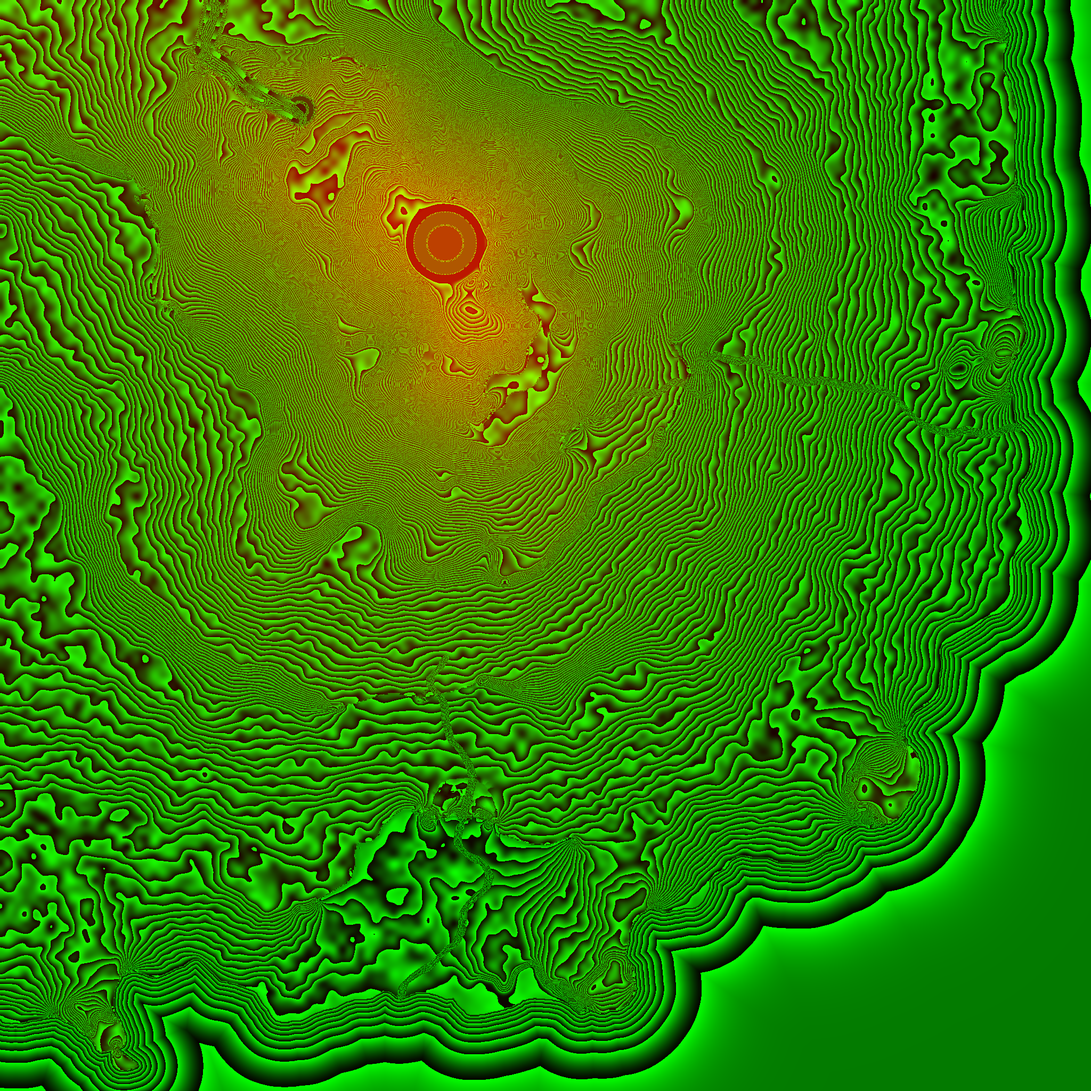
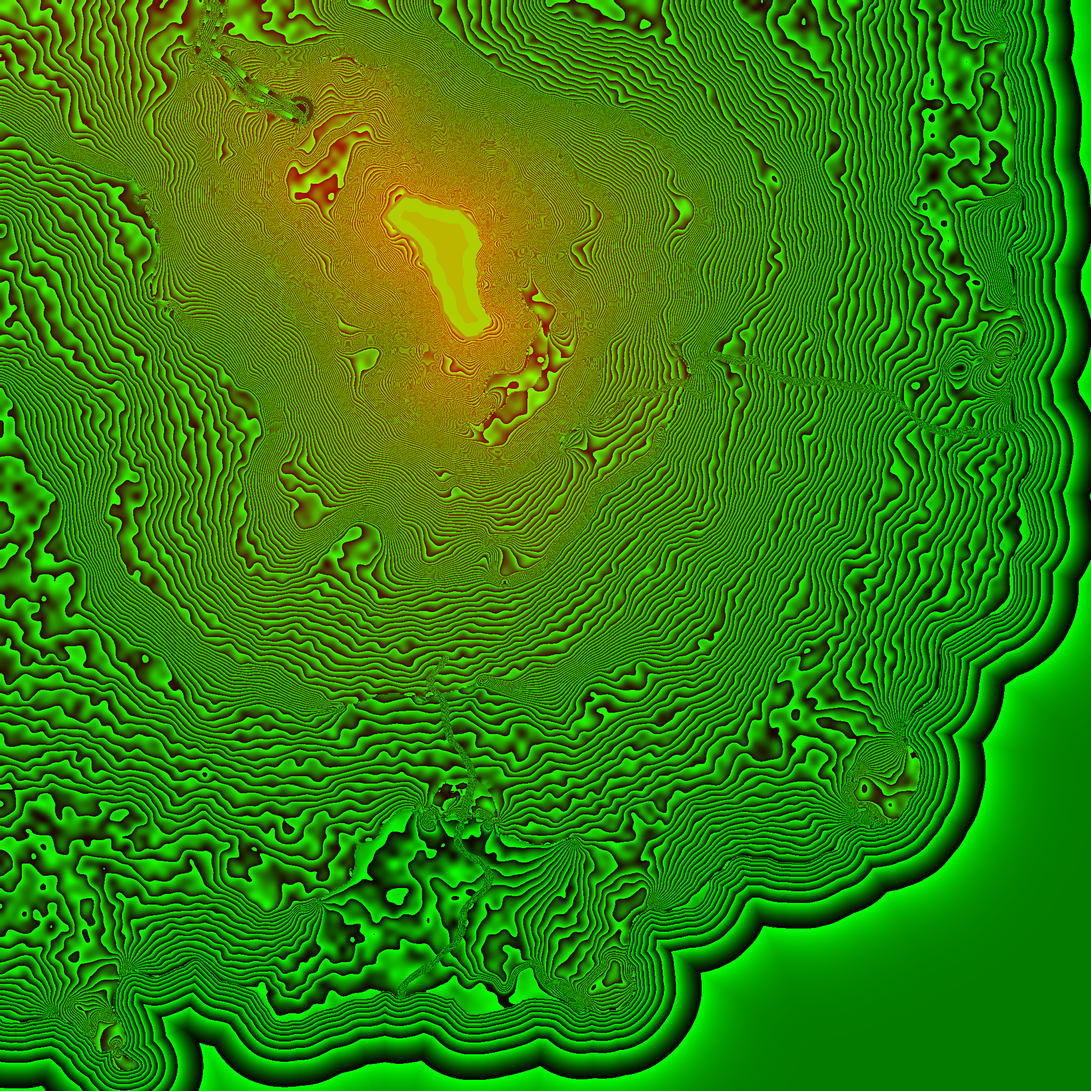
feat(map): 해자를 정상 300m 등고선 모양으로 — 원형 도장 대신 moat.png
- sketch_to_map: 300m 등고선 안을 11m 줄인 띠에 폭 25m·깊이 22m 물, 그 안 = 탑 섬 (약 146×213m, 9100㎡)
- 굽기: moat.png 층 (0 없음·128 물·255 섬) → 저수호·탑 도장 생략, 표식 중심·둑·섬 높이 계산 (MapStamps.shaped_moat)
- 게임: 수면 격자·수영 판정(Water.area)·식생 제외를 해자 모양으로

Claude-Session: https://claude.ai/code/session_01PShdycDoYj1ffFPsLxdXpC

Changed region(s): [[0.3438, 0.1562, 0.4688, 0.3125]]

diff --git a/tools/sketch_to_map.py b/tools/sketch_to_map.py
@@ -64,8 +64,8 @@ FOREST_DENSITY = 0.008 # 이 밀도 넘으면 숲
 MARKERS = [
     ("start", 873, 1728),
     ("lookout", 158, 1847),        # 전망대 (observatory)
-    ("tower", 634, 727),           # 굽기에서 해자 중심으로 옮겨진다
-    ("lake", 629, 721),            # 해자 = 저수호 도장. 정상 평지 한가운데 (그림의 빗금 자리는 동쪽 비탈에 걸려 좁았다)
+    ("tower", 634, 727),           # 굽기에서 moat.png 탑 섬 중심으로 옮겨진다
+    ("lake", 629, 721),            # 해자 = moat.png 모양 (굽기에서 중심·둑 높이 계산)
     ("sluice", 420, 592),
     ("sluice", 790, 922),
     ("sluice", 628, 1297),
@@ -85,6 +85,13 @@ POOL_DEPTH = 14.0              # 소 깊이 (바닥 아래, m) — 개천 파기
 EXTRA_STREAMS = [[(667, 1480), (660, 1510), (651, 1538)]]   # 그림에서 마을 빗금에 가려 끊긴 남쪽 강 (절벽 = 폭포 자리)
 NOT_CLIFF_BOXES = [(595, 700, 710, 860)]   # 절벽색으로 읽히지만 절벽이 아닌 곳 (원본 x0, x1, y0, y1): 정상의 옛 탑 빗금
 RIVER_HALF_PX = 6              # 개천 칠하기 반폭 (원본 px ≈ 8m → 폭 약 17m)
+# 해자: 정상 300m 등고선 모양을 안쪽으로 줄여 판다 (원형 도장 대신). 결과는 moat.png (0 없음·128 물·255 탑 섬)
+SUMMIT_REGIONS = [35, 40, 41]  # 300m 등고선 안 영역 (40·41 = 그림의 탑·해자 빗금 칸)
+MOAT_RIM_PX = 8                # 300m 선 → 해자 바깥 벽 (원본 px ≈ 11m)
+MOAT_W_PX = 19                 # 해자 물 폭 (px ≈ 25m)
+MOAT_DEPTH = 22.0              # 해자 바닥 = 둑 높이 − 22m
+ISLAND_RISE = 2.0              # 탑 섬 윗면 = 둑 높이 + 2m
+MOAT_BANK_PX = 6               # 물가 둑 (px): 둑 높이 아래면 메운다 (물이 새지 않게)
 # 숲 (구역 지도 색 인덱스는 MapLegend.ZONES 순서: 활엽수 숲)
 FOREST_COLOR = (0x54, 0x82, 0x35)
 HIGHLAND_COLOR = (0xA6, 0xA6, 0xA6)
@@ -417,6 +424,31 @@ def main():
 
     # 지도 격자로
     hm = nd.zoom(full, (size / H, size / W), order=1)[:size, :size]
+
+    # 해자: 300m 등고선 안(P)을 줄여 섬, 섬 둘레 MOAT_W 띠 = 물. 지도 격자에서 판다 (벽이 1칸 = 거의 수직)
+    P = np.isin(rr, SUMMIT_REGIONS)
+    P = nd.binary_opening(nd.binary_fill_holes(nd.binary_closing(nd.binary_dilation(P, iterations=3), iterations=12)), iterations=4)
+    dP = nd.distance_transform_edt(P)
+    isl = dP > MOAT_RIM_PX + MOAT_W_PX
+    lab, n = nd.label(isl)
+    isl = lab == 1 + int(np.argmax(nd.sum(isl, lab, range(1, n + 1))))
+    isl = nd.binary_opening(isl, iterations=3)
+    water = nd.binary_dilation(isl, iterations=MOAT_W_PX) & (dP > MOAT_RIM_PX) & ~isl
+
+    def up(mask):     # 원본 px 모양 → 지도 격자 (가장자리 매끄럽게)
+        return nd.zoom(nd.gaussian_filter(mask.astype(np.float32), 1.5), (size / H, size / W), order=1)[:size, :size] > 0.5
+    isl_g, water_g = up(isl), up(water | isl) & ~up(isl)
+    crest = float(np.median(hm[isl_g])) - ISLAND_RISE      # 둑 높이 = 섬(정상 평지) 높이 중앙값 − 2
+    bank = nd.binary_dilation(water_g, iterations=round(MOAT_BANK_PX * size / W)) & ~water_g & ~isl_g
+    hm[bank] = np.maximum(hm[bank], crest)
+    hm[isl_g] = crest + ISLAND_RISE
+    hm[water_g] = crest - MOAT_DEPTH
+    moat = np.zeros((size, size), np.uint8)
+    moat[water_g] = 128
+    moat[isl_g] = 255
+    Image.fromarray(moat).save(os.path.join(MAP_DIR, "moat.png"))
+    gm = cfg["world"] / size
+    print(f"moat.png — 섬 {isl_g.sum() * gm * gm:.0f} m², 물 {water_g.sum() * gm * gm:.0f} m², 둑 {crest:.1f} m")
     t = np.clip((hm - min_h) / (max_h - min_h) * 255.0, 0, 255)
     r = np.floor(t).astype(np.int32)
     g = np.clip(np.round((t - r) * 256.0), 0, 255).astype(np.int32)
